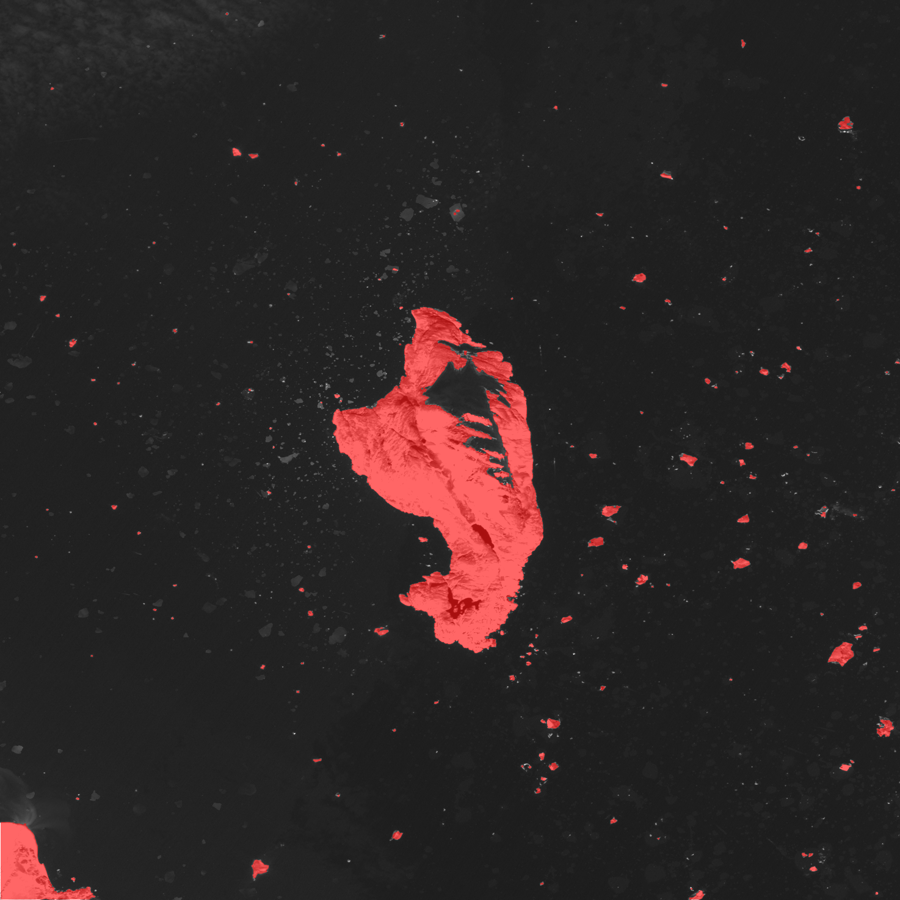
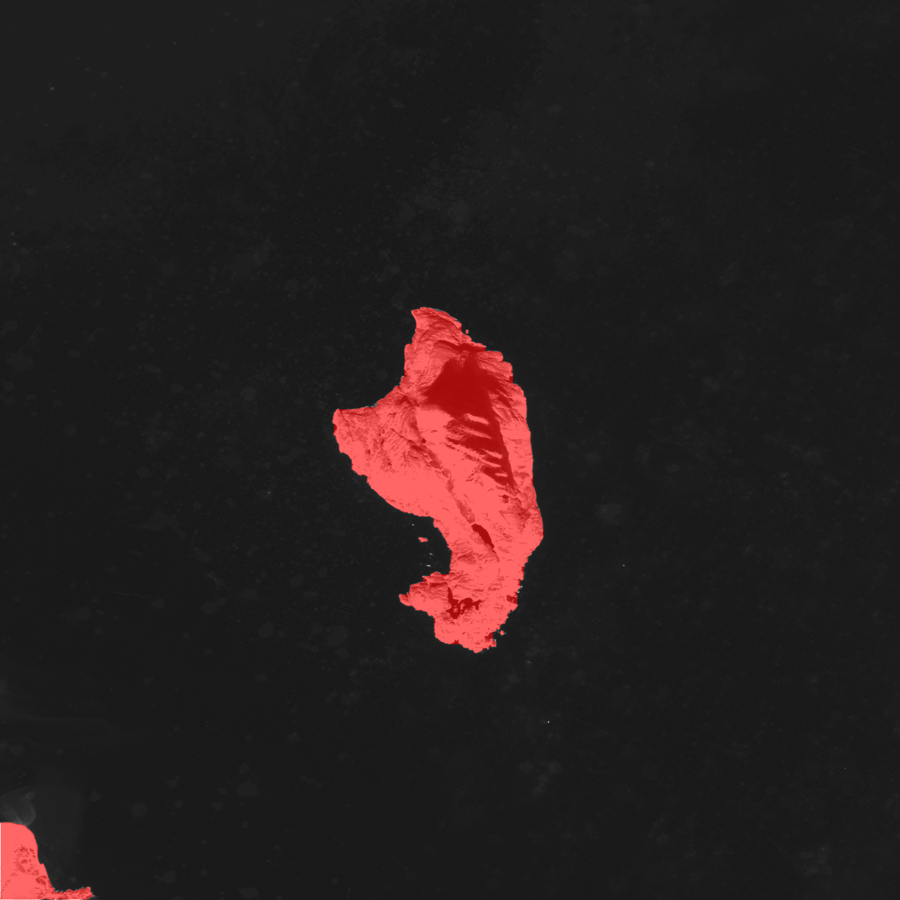
Take the icebergs out of the land mask and give the island its shadow back
Both defects were spotted by eye in a quicklook, and both turned out to have the
same root: the 75th percentile the derivation used.

**151 icebergs were classified as land.** At the 75th percentile a cell needed
to be bright in two scenes out of eight, and a floe that drifts through the same
10 m cell twice in four Augusts clears that. The mask had 154 connected
components: the island, the mainland corner, and 151 fragments totalling
1.06 km2 scattered across the frame. At the median a cell must be bright in most
scenes, which is exactly what separates fixed land from drifting ice, and the
count falls to 5 components and 0.016 km2 of fragments.

**The island had a 1.6 km2 bite out of its eastern flank**, which is 14 percent
of it, where the mountain shadows its own face. The docstring justified the high
percentile with "a face shadowed in one scene is lit in another". That is false
here and now measured: Sentinel-2 is sun synchronous, so across 116 clear summer
scenes from four years the sun azimuth spans 176.3 to 188.7 degrees. Twelve
degrees. That face is shadowed in every acquisition this satellite will ever
make of this island.

Nor is it separable radiometrically. On a clear August scene the notch sits at a
near-infrared median of 0.0212 against 0.0147 for open water. A cut at 0.020
recovers 60 percent of the notch; a cut at 0.015 recovers all of it and 36
percent of the ocean.

So it is closed geometrically, on the largest body only, and the radius is
[…]

diff --git a/scripts/derive_landmask.py b/scripts/derive_landmask.py
@@ -25,14 +25,37 @@ scenes, taken when the fjord is open, the per-pixel near-infrared reflectance
 separates the two cleanly, and a drifting floe cannot survive an aggregate over
 several dates.
 
-The aggregate is a high PERCENTILE rather than the median, and that is the whole
-subtlety. At 70 degrees north the heart-shaped mountain casts a large shadow onto
-its own eastern face, and a shadowed slope is as dark in the near infrared as
-water is. With the median that slope drops out of the mask, which is visible in
-the quicklook as a dark band through the middle of the island. The sun azimuth
-differs between scenes, so a face shadowed in one is lit in another: taking the
-75th percentile recovers it while still needing most scenes to disagree before a
-single drifting floe can be promoted to land.
+THE SHADOW, AND WHY NO PERCENTILE FIXES IT
+------------------------------------------
+At 70 degrees north the heart-shaped mountain casts a large shadow onto its own
+eastern face, and shadowed rock is nearly as dark in the near infrared as water.
+This script used to take the 75th percentile across scenes on the reasoning that
+a face shadowed in one scene is lit in another. Measured, that reasoning is
+wrong: Sentinel-2 is sun synchronous, so it crosses at the same local solar time
+every pass. Across 116 clear summer scenes from four years the sun azimuth runs
+only 176.3 to 188.7 degrees, a spread of 12. The eastern face is shadowed in
+every acquisition this satellite will ever make of this island.
+
+Nor are the two separable radiometrically. On a clear August scene the shadowed
+notch has a near-infrared median of 0.0212 against 0.0147 for open water, seven
+thousandths apart. A cut at 0.020 recovers 60 percent of the notch; a cut at
+0.015 recovers all of it and 36 percent of the ocean with it.
+
+So the percentile is used for what it is actually good at, and the shadow is
+closed geometrically:
+
+* The MEDIAN across scenes asks that a cell be bright in most of them. Land does
+  not move and icebergs do, so this is what separates them. At the 75th
+  percentile two scenes out of eight sufficed and the mask contained 151 stray
+  fragments totalling 1.06 km2. At the median that falls to 10 fragments and
+  0.12 km2, while the island loses 4 percent and the mainland corner is
+  untouched.
+* The island is one closed body, so its outline is CLOSED morphologically. The
+  radius is not a taste: the added area jumps 1.96 km2 at 50 m as the mouth of
+  the notch is bridged, then flattens to hundredths between 80 and 200 m, and
+  only starts eating real coastline past 300 m. 80 m sits on that plateau. The
+  area this adds is printed, so the correction is auditable rather than
+  invisible.
 
 The result is written as a GeoTIFF carrying the CRS and transform of the scene
 grid it was derived on, so it can be reprojected onto any future grid rather than
@@ -65,7 +88,9 @@ from scipy.ndimage import (  # noqa: E402
     binary_closing,
     binary_fill_holes,
     binary_opening,
+    label,
 )
+from scipy.ndimage import sum as ndi_sum  # noqa: E402
 
 from uummannaq_ice.config import (  # noqa: E402
     DEFAULT_AOI,
@@ -94,6 +119,10 @@ NIR_LAND_FLOOR = 0.06
 HOME_TILE = "22WDD"
 # Remove single stray pixels, then close pinholes inside the island.
 MORPHOLOGY_CELLS = 3
+# Radius of the closing that bridges the shadowed notch. See the docstring: the
+# added area steps at 50 m and is flat from 80 to 200, so this sits on the
+# plateau rather than on the step.
+SHADOW_CLOSE_METRES = 80
 
 
 def load_nir(item, aoi) -> tuple[np.ndarray, object]:
@@ -106,6 +135,35 @@ def load_nir(item, aoi) -> tuple[np.ndarray, object]:
     return nir, ds.odc.geobox
 
 
+def _close_shadow(land: np.ndarray, metres: float, geobox) -> np.ndarray:
+    """Bridge the shadowed notch in the largest land body, and say what it cost.
+
+    Applied to the largest component only. A closing over the whole mask would
+    also weld neighbouring skerries to each other and to the island.
+    """
+    if metres <= 0:
+        return land
+
+    cell = abs(geobox.transform[0]) if geobox is not None else 10.0
+    radius = max(1, int(round(metres / cell)))
+
+    labels, count = label(land)
+    if count == 0:
+        return land
+    sizes = ndi_sum(land, labels, range(1, count + 1))
+    main = labels == (int(np.argmax(sizes)) + 1)
+
+    element = np.ones((2 * radius + 1, 2 * radius + 1), bool)
+    closed = binary_fill_holes(binary_closing(main, structure=element))
+    added = int(closed.sum() - main.sum())
+    print(
+        f"  shadow closing: radius {metres:.0f} m adds "
+        f"{added * cell * cell / 1e6:.3f} km2 to the largest body "
+        f"({100 * added / max(1, main.sum()):.1f} % of it)"
+    )
+    return land | closed
+
+
 def main() -> int:
     parser = argparse.ArgumentParser(description=__doc__)
     parser.add_argument("--out", type=Path, required=True)
@@ -114,9 +172,17 @@ def main() -> int:
     parser.add_argument(
         "--percentile",
         type=float,
-        default=75.0,
-        help="Per-pixel aggregate across scenes. 50 is the median; higher "
-        "recovers slopes that are shadowed in only some scenes.",
+        default=50.0,
+        help="Per-pixel aggregate across scenes. The median asks that a cell be "
+        "bright in most of them, which is what separates fixed land from "
+        "drifting ice.",
+    )
+    parser.add_argument(
+        "--close-metres",
+        type=float,
+        default=SHADOW_CLOSE_METRES,
+        help="Close the largest land body by this radius to bridge the shadowed "
+        "notch. 0 disables it.",
     )
     parser.add_argument("--dry-run", action="store_true")
     args = parser.parse_args()
@@ -173,6 +239,8 @@ def main() -> int:
     structure = np.ones((MORPHOLOGY_CELLS, MORPHOLOGY_CELLS))
     land = binary_opening(land, structure=structure)
     land = binary_closing(land, structure=structure)
+
+    land = _close_shadow(land, args.close_metres, geobox)
 
     print(f"\n  grid {land.shape}, land share {land.mean():.4f}")
     print(f"  aggregate: {args.percentile:.0f}th percentile over {len(stack)} scenes")

diff --git a/docs/methods.md b/docs/methods.md
@@ -13,12 +13,12 @@ arrived at.
 ## 1. Area of interest
 
 A fixed rectangle over the bay, `-52.336121/70.628226` to `-51.945564/70.788206`,
-which is **267.3 km²** on the WGS84 ellipsoid, about 14.7 by 18.1 km. Of that, **253.5 km² is water** and 13.7 km² is land, measured from `assets/landmask.tif` rather than assumed: the grid is 1474 by 1812 cells at 10 m and 0.05143 of them are land. The water figure is the one the story multiplies its anomalies by, and it is the only area number that should appear anywhere.
+which is **267.3 km²** on the WGS84 ellipsoid, about 14.7 by 18.1 km. Of that, **253.1 km² is water** and 14.2 km² is land, measured from `assets/landmask.tif` rather than assumed: the grid is 1474 by 1812 cells at 10 m and 0.05313 of them are land. The water figure is the one the story multiplies its anomalies by, and it is the only area number that should appear anywhere.
 
 The area is computed from the polygon, not carried as a constant. It was a
 constant, `FJORD_KM2 = 3450`, and that was wrong by a factor of 13.4. Because the
 constant also converted the spring anomaly into square kilometres, the published
-series reported anomalies of up to 1367 km² over a water area of 253.5 km², which is
+series reported anomalies of up to 1367 km² over a water area of 253.1 km², which is
 physically impossible and went unnoticed for the life of the project.
 
 ## 2. Scene selection

diff --git a/docs/handoff-to-story.md b/docs/handoff-to-story.md
@@ -136,7 +136,7 @@ reprocess does not cause either, but it will be the moment somebody notices.
 
 | | `update_fjord_data.py` | `backend/main.py` |
 |---|---|---|
-| fjord area for the spring anomaly | `FJORD_KM2 = 3450` (line 22) | `FJORD_KM2 = 253.5` (line 96), from the land mask |
+| fjord area for the spring anomaly | `FJORD_KM2 = 3450` (line 22) | `FJORD_KM2 = 253.1` (line 96), from the land mask |
 | early / late year groups | `EARLY_YRS`, `LATE_YRS` frozen lists (lines 20-21) | derived from `FJORD_LATE_START_YEAR = 2021` (line 71) |
 
 The area is a factor of 13.4 apart, and the comment at `backend/main.py:92`
